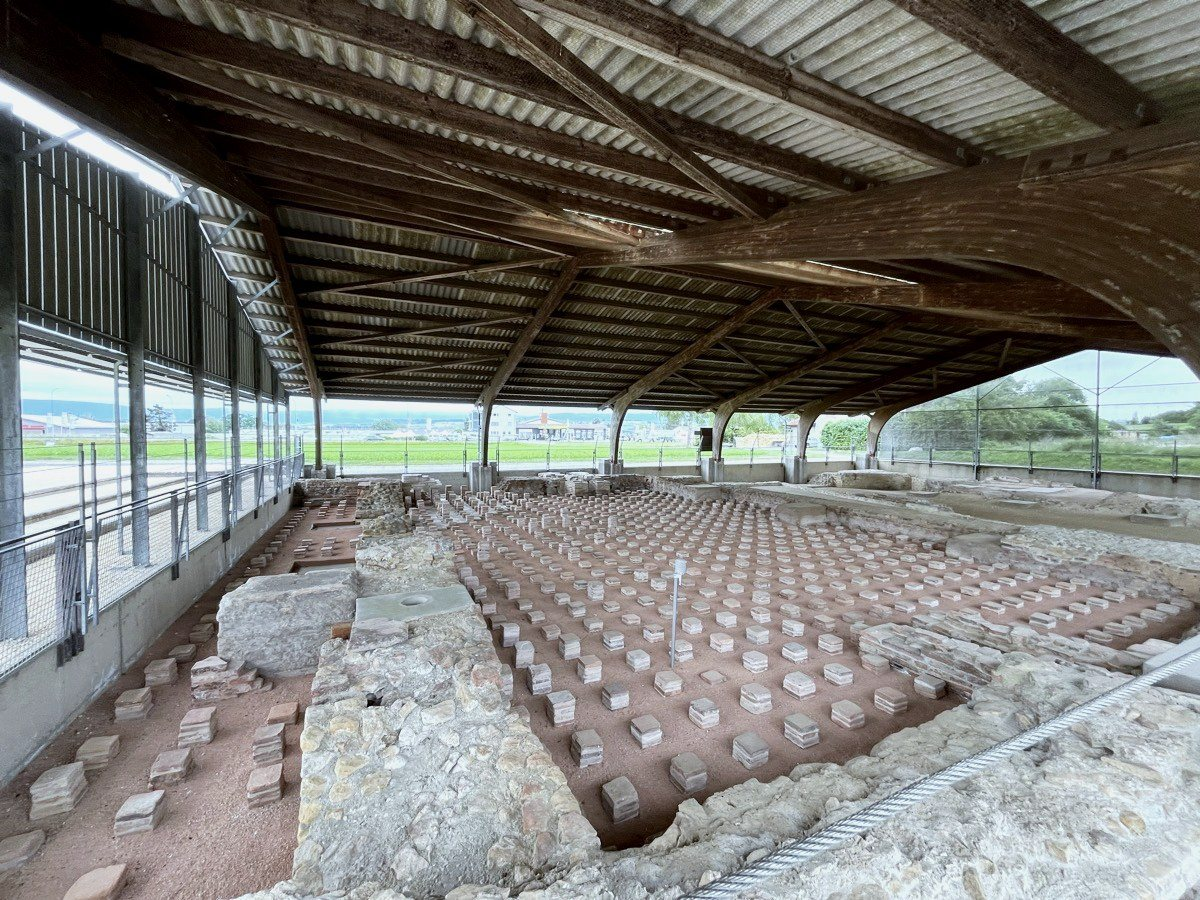
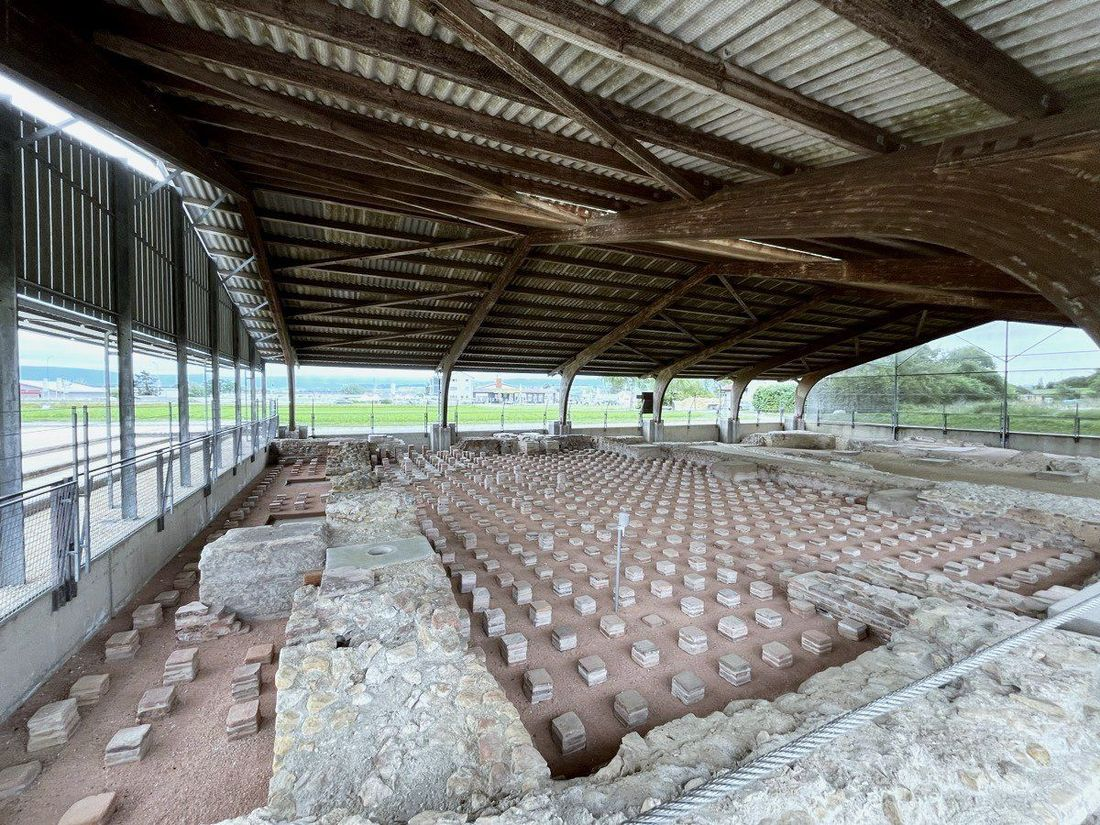
Optimisation des images (poids -55%)
- og_image : PNG 660K → JPEG 112K (-83%). Références .png→.jpg sur les
  4 pages + JSON-LD ; ancien PNG supprimé
- Recompression JPEG (q80, progressif) + redimensionnement des images
  surdimensionnées : hero 1920→1600w, s02 1200→900w, s05 1080w,
  s06b 1712→1200w, s07 1100w
- Orientation EXIF cuite (ImageOps.exif_transpose)
- Total images/ : 3.2M → ~1.4M, aucune balise <img> à changer (recompress
  en place). Vérifié : 0 image cassée, tous les GET 200, qualité intacte

diff --git a/index.html b/index.html
@@ -12,7 +12,7 @@
   <meta property="og:description" content="L'aigle de la Legio XXI a été volée. Résolvez 8 énigmes sur les monuments romains d'Avenches en 120 minutes.">
   <meta property="og:type" content="website">
   <meta property="og:url" content="https://aventicumquest.ch">
-  <meta property="og:image" content="https://aventicumquest.ch/images/og_image.png">
+  <meta property="og:image" content="https://aventicumquest.ch/images/og_image.jpg">
   <meta property="og:image:width" content="1200">
   <meta property="og:image:height" content="630">
   <meta property="og:image:alt" content="Aventicum Quest — chasse au trésor dans les vestiges romains d'Avenches">
@@ -22,7 +22,7 @@
   <meta name="twitter:card" content="summary_large_image">
   <meta name="twitter:title" content="Aventicum Quest Operatio Aquila">
   <meta name="twitter:description" content="L'aigle de la Legio XXI a été volée. Résolvez 8 énigmes sur les monuments romains d'Avenches en 120 minutes.">
-  <meta name="twitter:image" content="https://aventicumquest.ch/images/og_image.png">
+  <meta name="twitter:image" content="https://aventicumquest.ch/images/og_image.jpg">
   <link rel="canonical" href="https://aventicumquest.ch/">
   <link rel="icon" href="/favicon.ico" sizes="any">
   <link rel="icon" href="/favicon.svg" type="image/svg+xml">
@@ -43,7 +43,7 @@
         "name": "Aventicum Quest — Operatio Aquila",
         "description": "Jeu de piste en plein air à Avenches : 8 énigmes sur les monuments romains d'Aventicum, environ 120 minutes, sur smartphone, en français, anglais et allemand.",
         "url": "https://aventicumquest.ch/",
-        "image": "https://aventicumquest.ch/images/og_image.png",
+        "image": "https://aventicumquest.ch/images/og_image.jpg",
         "isAccessibleForFree": false,
         "availableLanguage": ["fr", "en", "de"],
         "address": {
@@ -57,7 +57,7 @@
         "@type": "Product",
         "name": "Aventicum Quest — Operatio Aquila",
         "description": "Code de jeu pour l'enquête en plein air Aventicum Quest à Avenches. Un code par joueur, valable 6 mois.",
-        "image": "https://aventicumquest.ch/images/og_image.png",
+        "image": "https://aventicumquest.ch/images/og_image.jpg",
         "brand": { "@type": "Brand", "name": "Aventicum Quest" },
         "offers": {
           "@type": "AggregateOffer",
@@ -75,7 +75,7 @@
         "name": "Aventicum Quest",
         "description": "Jeu de piste et chasse au trésor en plein air dans les vestiges romains d'Avenches. 8 énigmes sur smartphone, en famille ou entre amis, en français, anglais et allemand.",
         "url": "https://aventicumquest.ch/",
-        "image": "https://aventicumquest.ch/images/og_image.png",
+        "image": "https://aventicumquest.ch/images/og_image.jpg",
         "email": "info@aventicumquest.ch",
         "priceRange": "CHF 8–12",
         "address": {

diff --git a/acheter.html b/acheter.html
@@ -16,7 +16,7 @@
   <meta property="og:description" content="Réservez votre chasse au trésor à Avenches. Dès 8 CHF, code reçu par e-mail, valable 6 mois — jouez quand vous voulez.">
   <meta property="og:type" content="website">
   <meta property="og:url" content="https://aventicumquest.ch/acheter.html">
-  <meta property="og:image" content="https://aventicumquest.ch/images/og_image.png">
+  <meta property="og:image" content="https://aventicumquest.ch/images/og_image.jpg">
   <meta property="og:image:width" content="1200">
   <meta property="og:image:height" content="630">
   <meta property="og:image:alt" content="Aventicum Quest — chasse au trésor dans les vestiges romains d'Avenches">
@@ -24,7 +24,7 @@
   <meta name="twitter:card" content="summary_large_image">
   <meta name="twitter:title" content="Acheter votre partie — Aventicum Quest">
   <meta name="twitter:description" content="Réservez votre chasse au trésor à Avenches. Dès 8 CHF, code par e-mail, valable 6 mois.">
-  <meta name="twitter:image" content="https://aventicumquest.ch/images/og_image.png">
+  <meta name="twitter:image" content="https://aventicumquest.ch/images/og_image.jpg">
   <link rel="stylesheet" href="style.css">
   <!-- Privacy-friendly analytics by Plausible -->
   <script async src="https://plausible.io/js/pa-ELx2kKywInJ5MKZ1ST8au.js"></script>

diff --git a/comment.html b/comment.html
@@ -14,7 +14,7 @@
   <meta property="og:description" content="Achat en ligne, code reçu par e-mail, puis 8 énigmes à travers les monuments romains d'Avenches. Voici comment jouer.">
   <meta property="og:type" content="website">
   <meta property="og:url" content="https://aventicumquest.ch/comment.html">
-  <meta property="og:image" content="https://aventicumquest.ch/images/og_image.png">
+  <meta property="og:image" content="https://aventicumquest.ch/images/og_image.jpg">
   <meta property="og:image:width" content="1200">
   <meta property="og:image:height" content="630">
   <meta property="og:image:alt" content="Aventicum Quest — chasse au trésor dans les vestiges romains d'Avenches">
@@ -22,7 +22,7 @@
   <meta name="twitter:card" content="summary_large_image">
   <meta name="twitter:title" content="Comment ça marche — Aventicum Quest">
   <meta name="twitter:description" content="Achat en ligne, code par e-mail, puis 8 énigmes dans les monuments romains d'Avenches.">
-  <meta name="twitter:image" content="https://aventicumquest.ch/images/og_image.png">
+  <meta name="twitter:image" content="https://aventicumquest.ch/images/og_image.jpg">
   <link rel="stylesheet" href="style.css">
   <style>
     /* ══════════════════════════════════

diff --git a/que-faire-a-avenches.html b/que-faire-a-avenches.html
@@ -14,13 +14,13 @@
   <meta property="og:description" content="Avenches, capitale romaine de la Suisse : arènes, musée romain et une chasse au trésor grandeur nature pour toute la famille.">
   <meta property="og:type" content="article">
   <meta property="og:url" content="https://aventicumquest.ch/que-faire-a-avenches.html">
-  <meta property="og:image" content="https://aventicumquest.ch/images/og_image.png">
+  <meta property="og:image" content="https://aventicumquest.ch/images/og_image.jpg">
   <meta property="og:image:width" content="1200">
   <meta property="og:image:height" content="630">
   <meta name="twitter:card" content="summary_large_image">
   <meta name="twitter:title" content="Que faire à Avenches ? Activités romaines et en famille">
   <meta name="twitter:description" content="Avenches, capitale romaine de la Suisse : arènes, musée romain et une chasse au trésor grandeur nature pour toute la famille.">
-  <meta name="twitter:image" content="https://aventicumquest.ch/images/og_image.png">
+  <meta name="twitter:image" content="https://aventicumquest.ch/images/og_image.jpg">
 
   <link rel="icon" href="/favicon.ico" sizes="any">
   <link rel="icon" href="/favicon.svg" type="image/svg+xml">
